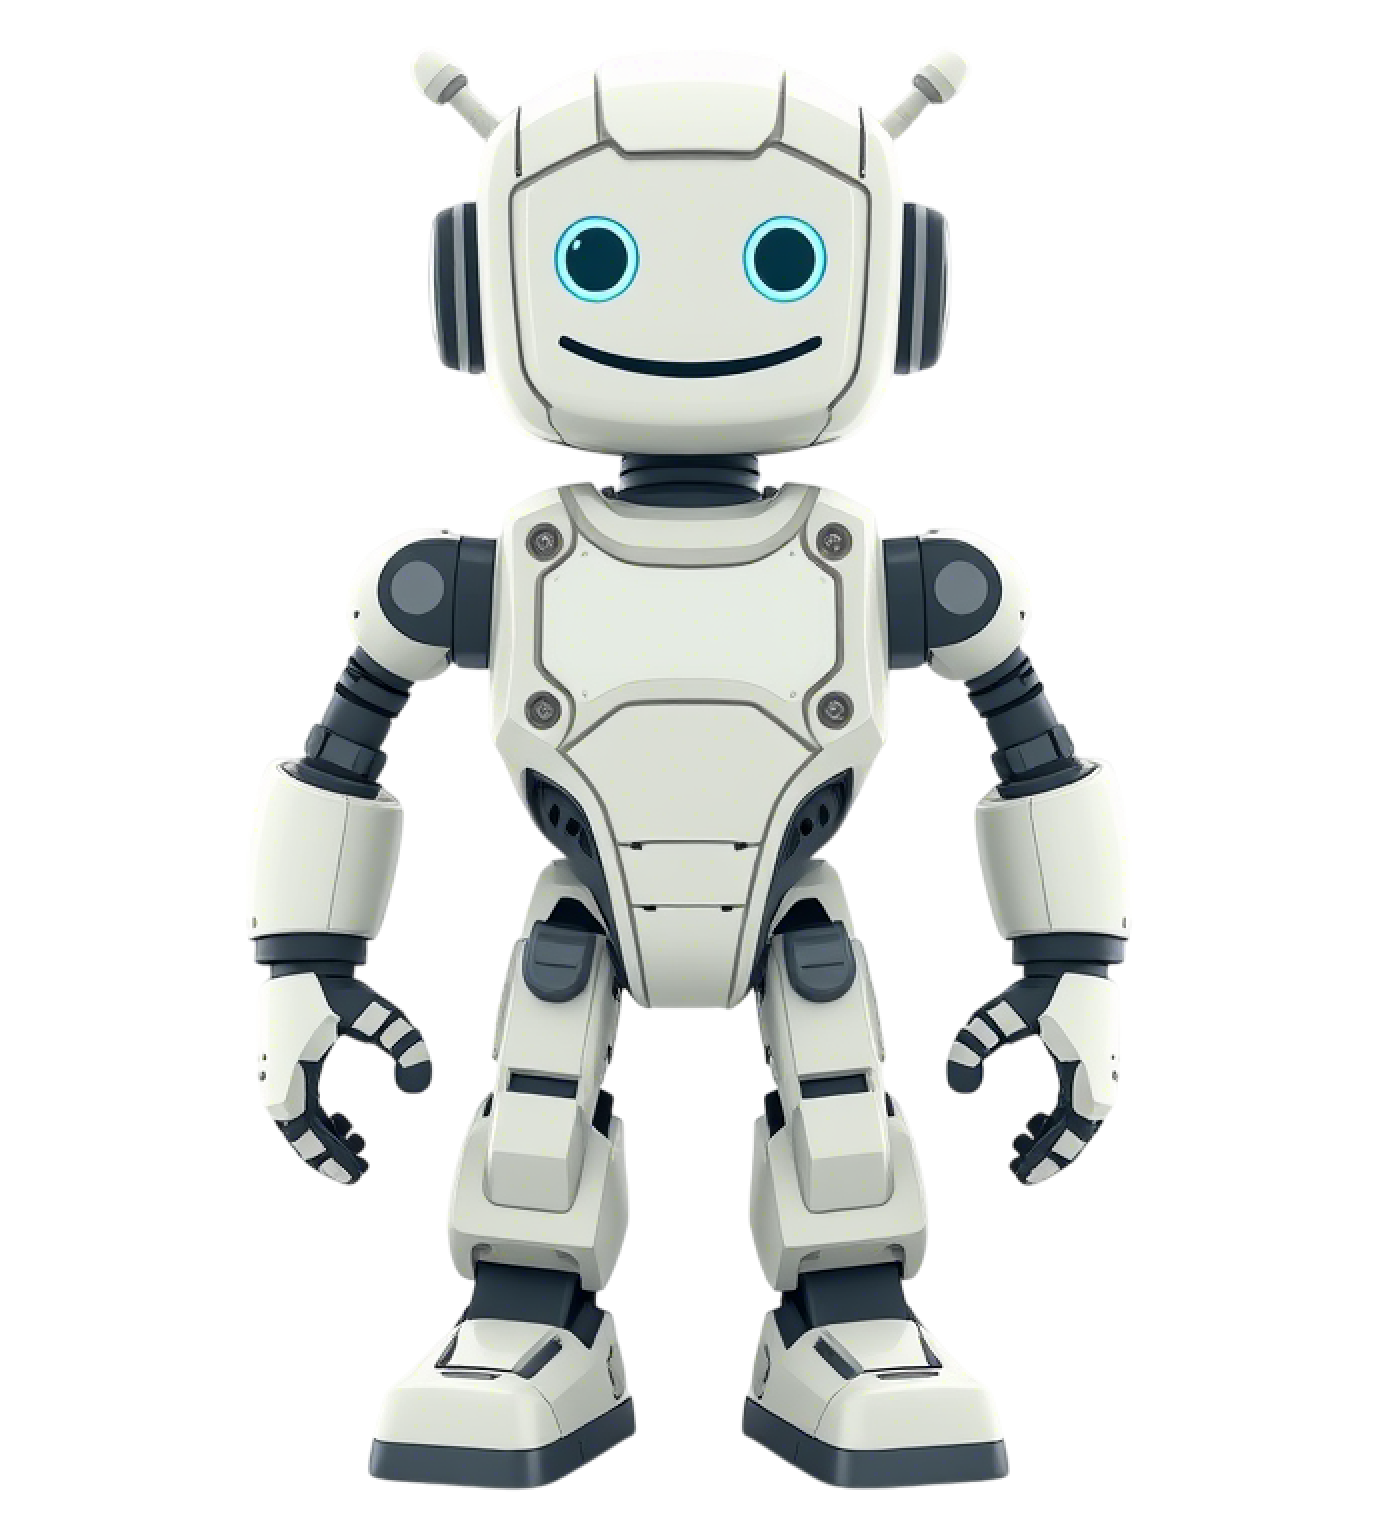
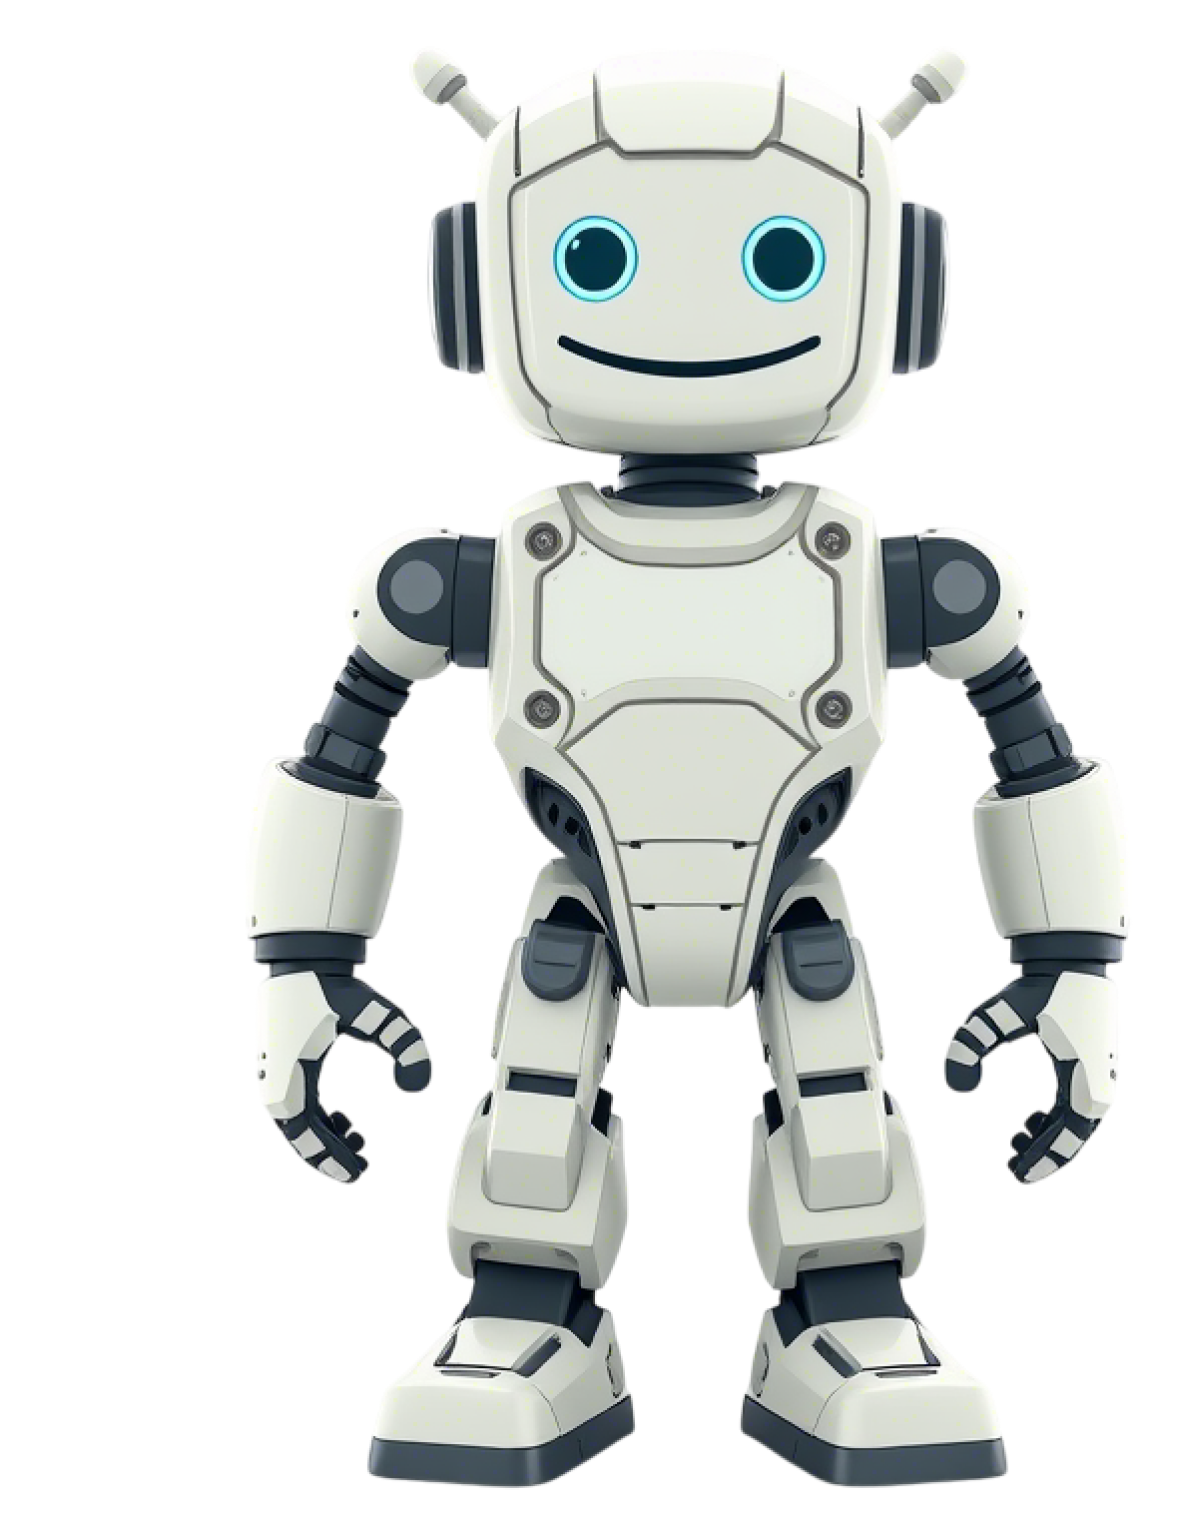
add media 1600px and 1000px

diff --git a/styles/main.css b/styles/main.css
@@ -42,7 +42,7 @@ a {
   background-repeat: no-repeat;
   background-size: cover;
   padding-top: 30px;
-  padding-bottom: 117px;
+  padding-bottom: 118px;
 }
 
 .container {
@@ -70,6 +70,12 @@ a {
 
 .header.scroll {
   border: solid 1px var(--outline);
+}
+
+.header-control {
+  display: flex;
+  align-items: center;
+  gap: 20px;
 }
 
 .logo {
@@ -175,6 +181,18 @@ a {
   background-size: contain;
 }
 
+.btn-burger {
+  background: transparent;
+  border: none;
+  display: none;
+  width: 34px;
+  height: 22px;
+  background-image: url(../images/burger-menu.svg);
+  background-repeat: no-repeat;
+  background-size: cover;
+  background-position: center center;
+}
+
 .btn-line {
   background: #0f152c;
   border: 1px solid var(--gradient);
@@ -205,7 +223,7 @@ a {
   font-family: var(--font-nunito);
   font-size: 12px;
   width: fit-content;
-  margin-bottom: 28px;
+  margin-bottom: 30px;
 }
 
 .light .badge {
@@ -275,7 +293,8 @@ a {
   margin-bottom: 6px;
 }
 
-.title-h5 {
+.title-h5,
+.copyright {
   font-family: var(--font-nunito);
   font-size: 20px;
   font-weight: 700;
@@ -317,11 +336,12 @@ a {
 
 .hero-image {
   padding-top: 26px;
+  padding-right: 98px;
 }
 
 .image-robot {
   width: 100%;
-  max-width: 974px;
+  max-width: 834px;
 }
 
 /* Screen */
@@ -351,7 +371,7 @@ a {
 
 .section-advantages {
   padding-top: 120px;
-  padding-bottom: 117px;
+  padding-bottom: 116px;
 }
 
 .advantages {
@@ -553,7 +573,7 @@ a {
 
 .section-product {
   margin-top: 120px;
-  margin-bottom: 115px;
+  margin-bottom: 116px;
 }
 
 .product {
@@ -772,7 +792,7 @@ a {
   justify-content: space-between;
   align-items: center;
   border-bottom: 1px solid #a7a7a7;
-  padding-bottom: 54px;
+  padding-bottom: 55px;
 }
 
 .footer-top .logo {
@@ -784,11 +804,11 @@ a {
 .social-list {
   display: flex;
   gap: 14px;
-  padding-top: 9px;
+  padding-top: 15px;
 }
 
 .social-link {
-  display:inline-block;
+  display: block;
   width: 30px;
   height: 30px;
   background-repeat: no-repeat;
@@ -824,6 +844,120 @@ a {
   padding-top: 3px;
 }
 
-.footer-bottom .title-h5 {
+.copyright {
   text-align: center;
+}
+
+@media (max-width: 1600px) {
+  .main {
+    padding-top: 20px;
+    padding-bottom: 96px;
+  }
+
+  .container {
+    max-width: 1170px;
+  }
+
+  .header {
+    max-width: calc(1170px - 30px);
+    padding-right: 26px;
+    padding-left: 24px;
+  }
+
+  .nav {
+    gap: 20px;
+  }
+
+  .title-h1 {
+    font-size: 62px;
+  }
+
+  .section-hero {
+    margin-top: 148px;
+    margin-bottom: 96px;
+  }
+
+  .hero {
+    gap: 3vw;
+  }
+
+  .hero-text {
+    flex-basis: 609px;
+    padding-top: 38px;
+  }
+
+
+  .description-hero {
+    margin-top: 27px;
+    margin-bottom: 34px;
+  }
+
+  .brands {
+    justify-content: center;
+     gap: 25px 36px;
+     margin-top: 99px;
+  }
+
+  .hero-image {
+    flex-basis: calc(100% - 609px - 3vw);
+    padding-right: 0;
+    padding-top: 23px;
+  }
+
+  .description-screen {
+    margin-bottom: 46px;
+  }
+
+  .image-screen {
+    max-width: 1010px;
+  }
+}
+
+@media (max-width: 1000px) {
+  .main {
+    padding-top: 30px;
+  }
+
+  .btn-burger {
+    display: block;
+  }
+
+  .nav,
+  .hero-image {
+    display: none;
+  }
+
+  .hero {
+    justify-content: center;
+    text-align: center;
+  }
+
+  .hero-text {
+    padding-top: 32px;
+  }
+
+  .badge,
+  .btn-accent,
+  .description-hero {
+    margin: 0 auto;
+  }
+
+  .hero-text .badge {
+    margin-bottom: 31px;
+  }
+
+  .description-hero {
+    margin-top: 32px;
+    margin-bottom: 30px;
+  }
+
+  .brands {
+    justify-content: space-around;
+    margin-top: 78px;
+    gap: 25px 0;
+  }
+
+  .description-screen {
+    margin-bottom: 44px;
+  }
 }

diff --git a/index.html b/index.html
@@ -24,7 +24,10 @@
               <a href="pricing.html" class="nav-link">Тарифы</a>
               <a href="contact.html" class="nav-link">Контакты</a>
             </nav>
-            <a href="" class="btn-accent"><span>Регистрация</span></a>
+            <div class="header-control">
+              <a href="" class="btn-accent"><span>Регистрация</span></a>
+              <button type="button" class="btn-burger" id="btnBurger"></button>
+            </div>
           </div>
         </div>
       </header>
@@ -243,7 +246,7 @@
           </div>
         </div>
         <div class="footer-bottom">
-          <p class="title-h5">Copyright © 2025, ChittiAI</p>
+          <p class="copyright">Copyright © 2025, ChittiAI</p>
         </div>
       </div>
     </footer>
